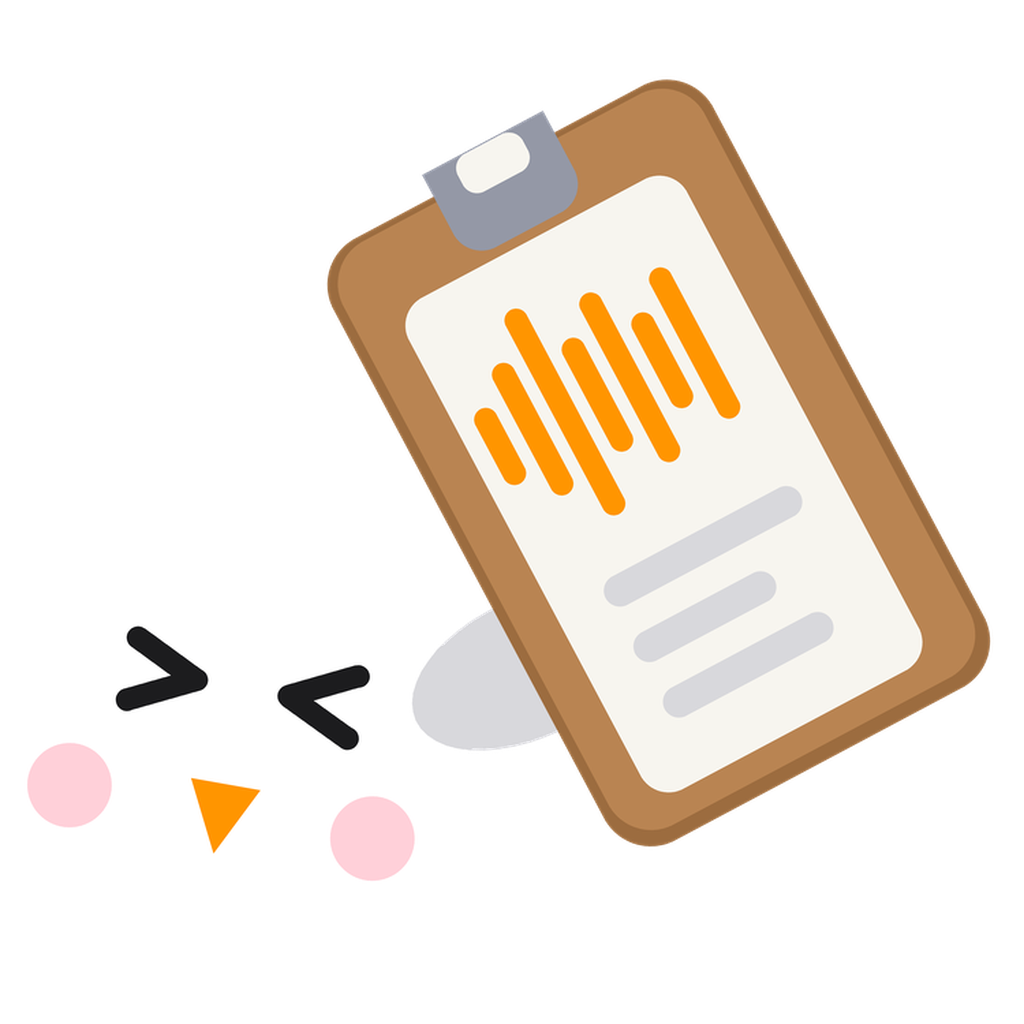
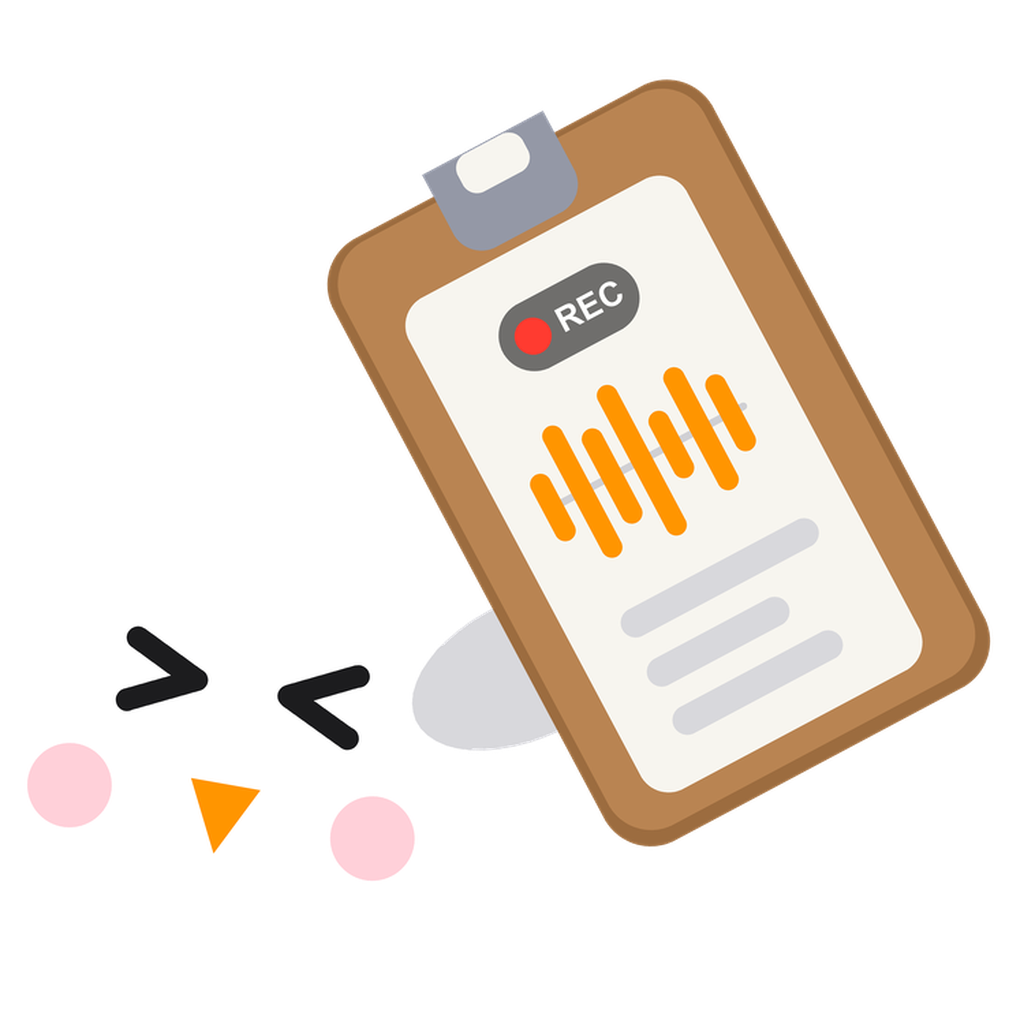
feat: アイコンに REC ピルを追加し、旧版をアーカイブへ退避
ホーム画面でも「録音してノートにする」意図が伝わるようクリップボード上に REC を足し、--install 時は ios xcassets も同期する。

Changed region(s): [[0.4688, 0.25, 0.8438, 0.7188]]

diff --git a/design/icons/archive/v1-clipboard-waveform/gen_reporoku_assets.py b/design/icons/archive/v1-clipboard-waveform/gen_reporoku_assets.py
@@ -1,14 +1,10 @@
 """レポろく アプリアイコン生成スクリプト(これが唯一の正)。
 
 アイコンを調整するときはこのファイルだけを編集する。
-構図は「波形入りクリップボードを見るシマエナガちゃん」を踏襲しつつ、
-クリップボード上に赤い REC ピルを足して「録音してノートにする」ことが
-ホーム画面サイズでも伝わるようにした版。
-
-旧版(RECなし)は design/icons/archive/v1-clipboard-waveform/ に退避してある。
-
-スタンプ抜き(正面)・うりつみ(右で左向き)とキャラの向き・位置が被らないよう、
-左に立って右のクリップボードを見る構図にしている。
+座標は Claude との検討チャットで固まった「波形入りクリップボードを見るシマエナガちゃん」
+構図(ペリウィンクルのグラデーション背景 / 画面左のシマエナガ / 右の波形入り
+クリップボード)をそのまま数値化したもの。スタンプ抜き(正面)・うりつみ(右で左向き)
+とキャラの向き・位置が被らないよう、左に立って右のクリップボードを見る構図にしている。
 
     python3 gen_reporoku_assets.py            # プレビューを out/ に生成
     python3 gen_reporoku_assets.py --install  # app.json が参照する assets/ へ書き出し
@@ -160,46 +156,10 @@ class Scene:
 
 
 
-def make_rec_badge(height_px):
-    """左右反転の影響を受けない REC ピル画像を作る。
-    レイアウトは常に LTR: [赤ドット][隙間][REC]。"""
-    h = max(28, int(round(height_px)))
-    pad_x = int(round(h * 0.22))
-    dot_r = int(round(h * 0.26))
-    gap = int(round(h * 0.14))
-    font_size = max(12, int(round(h * 0.48)))
-    font = ImageFont.truetype(FONT_TEXT, font_size)
-    tmp = Image.new("RGBA", (1, 1))
-    tb = ImageDraw.Draw(tmp).textbbox((0, 0), "REC", font=font)
-    tw = tb[2] - tb[0]
-    w = pad_x + dot_r * 2 + gap + tw + pad_x
-    badge = Image.new("RGBA", (w, h), (0, 0, 0, 0))
-    d = ImageDraw.Draw(badge, "RGBA")
-    d.rounded_rectangle([0, 0, w - 1, h - 1], radius=h / 2, fill=REC_PILL)
-    cy = h / 2
-    dot_cx = pad_x + dot_r
-    d.ellipse(
-        [dot_cx - dot_r, cy - dot_r, dot_cx + dot_r, cy + dot_r],
-        fill=REC,
-    )
-    # 左中央基準で、ドット右端 + gap から REC を開始する
-    d.text(
-        (pad_x + dot_r * 2 + gap, cy),
-        "REC",
-        font=font,
-        fill=(255, 255, 255, 255),
-        anchor="lm",
-    )
-    return badge
-
-
 def draw_clipboard(sc):
     """右側の小道具:木の板を背面に持つ、波形入りクリップボード。
     録音がノートになることを示す。斜めに持っている見た目にするため、
-    このレイヤーは呼び出し側で回転してから合成する。
-
-    REC ピルは flip と文字描画が干渉するため、ここでは描かず
-    render_clipboard_layer 側で LTR のバッジ画像を貼る。"""
+    このレイヤーは呼び出し側で回転してから合成する。"""
     # 背面の木の板(紙より一回り大きく、縁を少し暗くして立体感を出す)
     sc.rounded_rect(51, 21, 41, 65, 5, WOOD_DARK)
     sc.rounded_rect(52, 21.6, 39, 63, 4.6, WOOD)
@@ -208,20 +168,16 @@ def draw_clipboard(sc):
     # クリップの金具(板の上端を挟む)
     sc.rounded_rect(65.5, 15, 13, 13, 3, CLIP)
     sc.rounded_rect(68.5, 18.8, 7, 4, 1.5, PAPER)
-
-    # イコライザー風波形(中央の薄い基準線 + 上下に伸びる棒)。RECピルの下に余白。
-    wave_y = 52.5
-    sc.rounded_rect(61.5, wave_y - 0.35, 21, 0.7, 0.35, "#D0D0D4")
+    # 波形(録音の記録であることを示す。用紙の中身だけ左右反転)
     for x, h in [
-        (62.2, 8), (65.4, 13), (68.6, 7), (71.8, 16), (75.0, 10),
-        (78.2, 14), (81.4, 7),
+        (62, 16), (65.5, 10), (69, 18), (72.5, 12), (76, 22),
+        (79.5, 14), (83, 8),
     ]:
-        sc.rounded_rect(x, wave_y - h / 2, 2.0, h, 1.0, ORANGE)
-
-    # 書き起こしたメモの行(波形の下)
-    sc.rounded_rect(61, 64.5, 21, 2.8, 1.4, GRILLE)
-    sc.rounded_rect(67, 69.8, 15, 2.8, 1.4, GRILLE)
-    sc.rounded_rect(64, 75.0, 18, 2.8, 1.4, GRILLE)
+        sc.rounded_rect(x, 45 - h / 2, 2.2, h, 1.1, ORANGE)
+    # 書き起こしたメモの行(右寄せに反転)
+    sc.rounded_rect(61, 61, 21, 3, 1.5, GRILLE)
+    sc.rounded_rect(67, 67, 15, 3, 1.5, GRILLE)
+    sc.rounded_rect(64, 73, 18, 3, 1.5, GRILLE)
 
 
 def render_clipboard_layer(ox, oy, scale):
@@ -239,16 +195,6 @@ def render_clipboard_layer(ox, oy, scale):
     inner_oy = oy + (ay - 50.0) * scale * (1 - CLIP_SCALE) + dy * inner_scale
     sc = Scene(d, ox=inner_ox, oy=inner_oy, scale=inner_scale, flip=CLIP_FLIP)
     draw_clipboard(sc)
-
-    # REC ピルは LTR のまま用紙上部へ貼る(文字が反転ロジックで壊れないようにする)。
-    # 貼り付け基準点は flip 済み Scene の座標で用紙上部中央寄り。
-    badge_h = sc.length(6.8)
-    badge = make_rec_badge(badge_h)
-    # ローカル座標(72.5, 37.2)は flip 後に用紙上部の見やすい位置へ来る
-    cx, cy = sc.pt(72.5, 37.2)
-    dest = (int(round(cx - badge.width / 2)), int(round(cy - badge.height / 2)))
-    layer.alpha_composite(badge, dest=dest)
-
     pivot_px = sc.pt(*CLIP_PIVOT)
     # 反射(flip)のあとに回転すると、回転の向きが打ち消し合う形になるため、
     # flip 時は角度の符号を反転させて本当の鏡映結果にする。
@@ -438,15 +384,6 @@ def main():
         save_checked(favicon, os.path.join(ASSETS, 'favicon.png'))
         os.makedirs(STORE_DIR, exist_ok=True)
         save_checked(store, os.path.join(STORE_DIR, 'play_store_icon_512.png'), STORE_ICON_MAX_BYTES)
-        # prebuild 済みの ios/ がある場合、xcassets 側も同時に更新しないと
-        # expo run:ios してもホーム画面アイコンが古いまま残る。
-        ios_icon = os.path.join(
-            HERE, '..', '..', 'ios', 'app', 'Images.xcassets',
-            'AppIcon.appiconset', 'App-Icon-1024x1024@1x.png',
-        )
-        if os.path.isdir(os.path.dirname(ios_icon)):
-            save_checked(full, ios_icon)
-            print('ios AppIcon.appiconset も更新しました')
         print('assets/ と design/icons/store/ に書き出しました')
     else:
         os.makedirs(OUT_DIR, exist_ok=True)

diff --git a/design/icons/archive/v1-clipboard-waveform/README.md b/design/icons/archive/v1-clipboard-waveform/README.md
@@ -1,0 +1,7 @@
+# v1 — 波形入りクリップボードを見るシマエナガちゃん
+
+2026-09-03 時点のアイコン一式。
+
+戻すとき:
+1. このフォルダの PNG を `assets/` と `design/icons/store/` にコピー
+2. `gen_reporoku_assets.py` をこのフォルダのスクリプトで上書き（必要なら）
